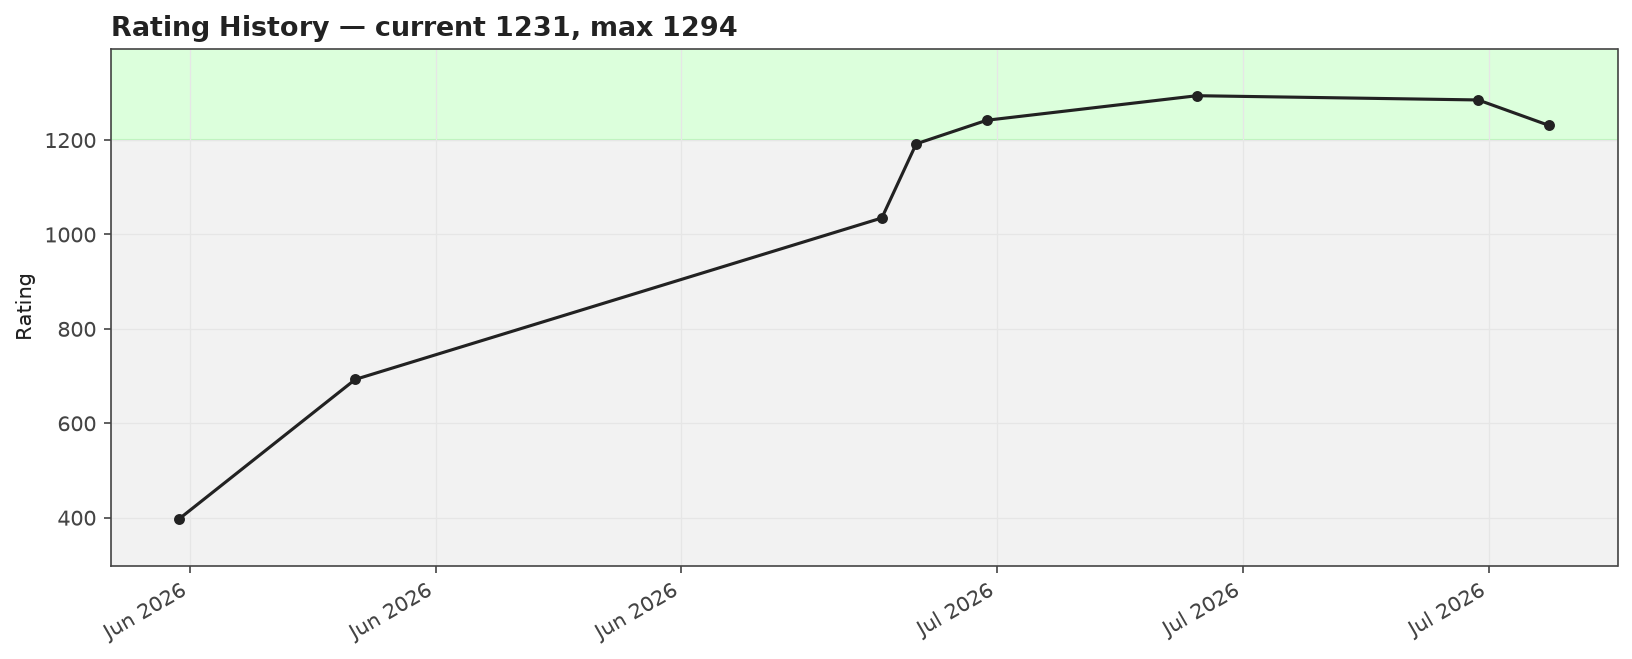
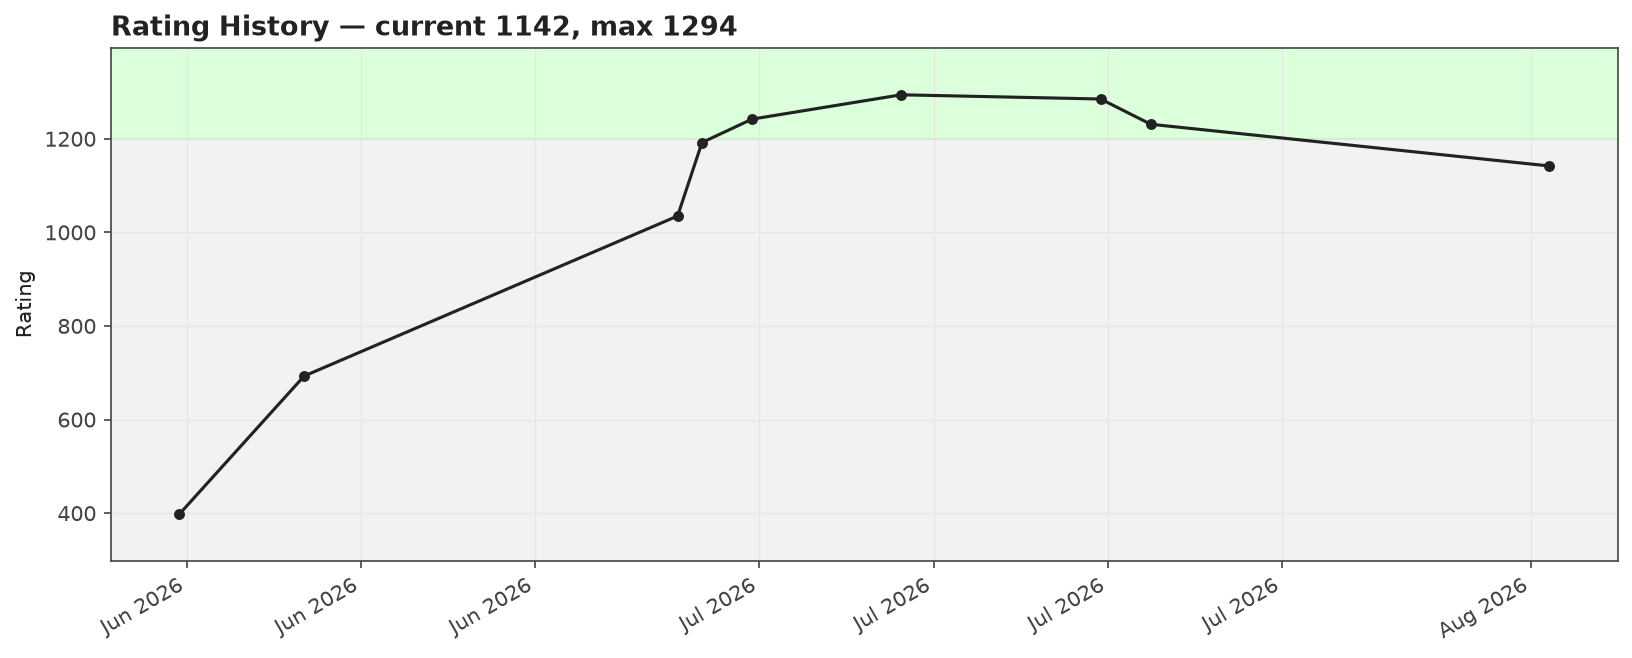
Sync: refresh analytics (rating/streak update, no new problems)

diff --git a/README.md b/README.md
@@ -4,8 +4,8 @@ Auto-generated archive of accepted Codeforces submissions for **[om_sharma_](htt
 
 - **Total solved:** 104
 - **With source attached:** 0 / 104
-- **Longest streak:** 15 days  |  **Current streak:** 4 days
-- **Contest rating:** 1231 (max 1294)
+- **Longest streak:** 15 days  |  **Current streak:** 0 days
+- **Contest rating:** 1142 (max 1294)
 
 ## 📊 Analytics
 
